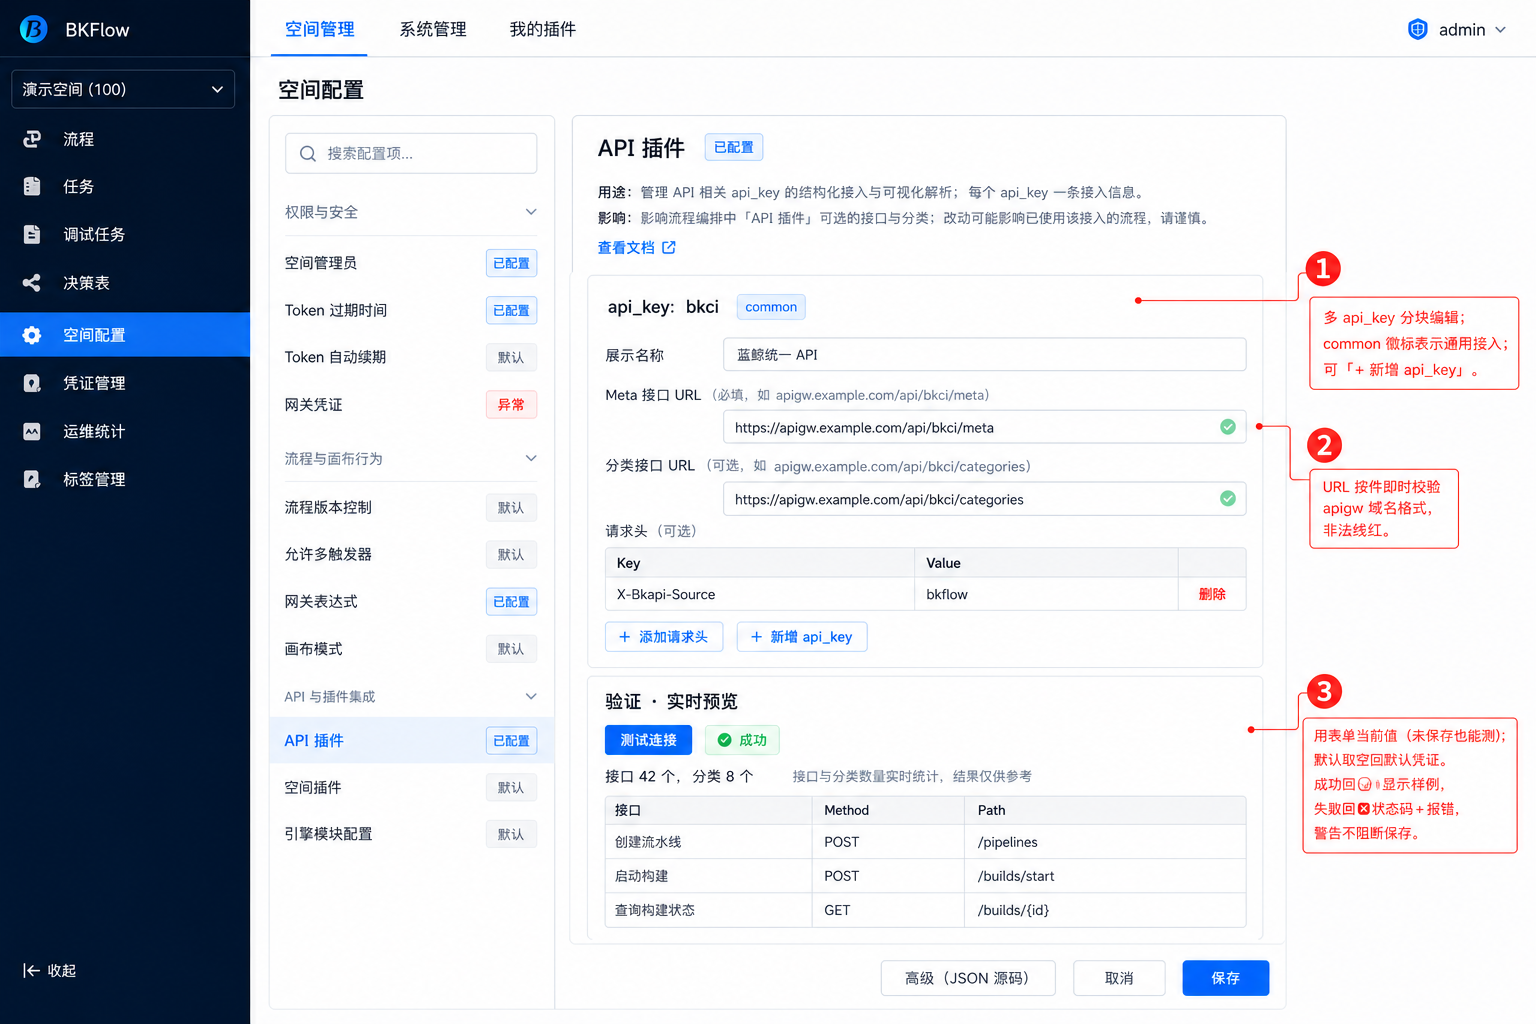
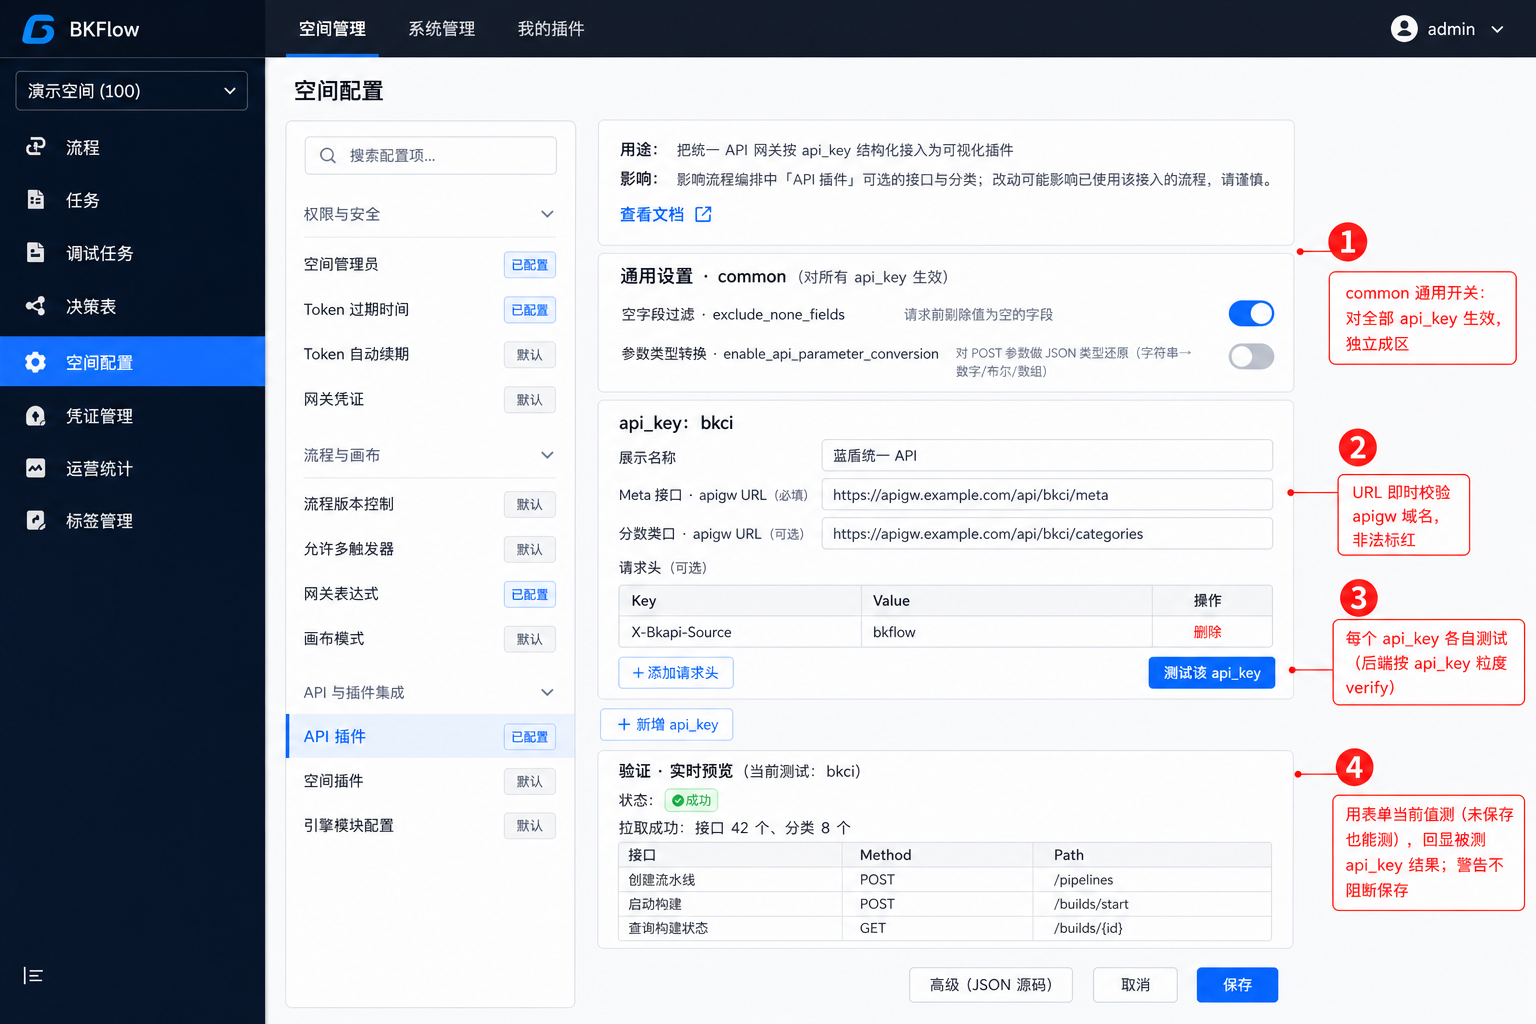
docs(space): 调整 API 插件设计稿 common 独立成区与 api_key 粒度测试 --story=132989396
- common（exclude_none_fields / enable_api_parameter_conversion）从 api_key 分块中移出，独立为「通用设置」区，明确其对全部 api_key 生效
- 测试按钮下沉为每个 api_key 各自的「测试该 api_key」，对齐后端 verify 的 api_key 粒度；验证预览区标注「当前测试：bkci」
- 同步更新 wiremd 源 screens/04 与 README 交互说明表

diff --git a/prototypes/output/space-config-redesign/screens/04-api-plugin-config.md b/prototypes/output/space-config-redesign/screens/04-api-plugin-config.md
@@ -13,7 +13,21 @@
 :::
 
 ::: card
-#### api_key: bkci  ((common)){primary}
+#### 通用设置 · common（对所有 api_key 生效）
+
+空字段过滤 · exclude_none_fields
+请求前剔除值为空的字段
+((已开启)){success}
+
+参数类型转换 · enable_api_parameter_conversion
+对 POST 参数做 JSON 类型还原（字符串 → 数字/布尔/数组）
+((已关闭))
+:::
+
+<!-- ❶ common 是跨全部 api_key 的通用开关，独立成区，不隶属某个 api_key。 -->
+
+::: card
+#### api_key: bkci
 
 展示名称
 [蓝盾统一 API____________]
@@ -30,18 +44,20 @@ Meta 接口 · apigw URL（必填，如 apigw.example.com/api/bkci/meta）
 |-----|-------|-|
 | X-Bkapi-Source | bkflow | [删除]{danger} |
 
-[+ 添加请求头]{secondary}  [+ 新增 api_key]{secondary}
+::: row
+[+ 添加请求头]{secondary}  [测试该 api_key]*
+:::
 :::
 
-<!-- ❶ 多 api_key 分块编辑；((common)) 徽标表示是否作为通用接入。 -->
 <!-- ❷ URL 控件即时校验 apigw 域名格式，非法标红。 -->
-
-::: card
-#### 验证 · 实时预览
+<!-- ❸ 每个 api_key 各带「测试」按钮，按 api_key 粒度验证（后端 verify 即按单个 api_key）。 -->
 
 ::: row
-[测试连接]*
+[+ 新增 api_key]{secondary}
 :::
+
+::: card
+#### 验证 · 实时预览（当前测试：bkci）
 
 状态：((成功)){success}
 
@@ -56,7 +72,7 @@ Meta 接口 · apigw URL（必填，如 apigw.example.com/api/bkci/meta）
 
 :::
 
-<!-- ❸ 验证用「表单当前填的值」，未保存也能测；鉴权凭证默认取空间默认凭证（复用 UniformAPIClient meta/分类拉取）。 -->
+<!-- ❹ 验证用「表单当前填的值」，未保存也能测；鉴权凭证默认取空间默认凭证（复用 UniformAPIClient meta/分类拉取）；预览区回显被测 api_key 的结果。 -->
 
 ::: row {right}
 [高级（JSON 源码）]{secondary} [取消] [保存]*

diff --git a/prototypes/output/space-config-redesign/README.md b/prototypes/output/space-config-redesign/README.md
@@ -129,15 +129,16 @@ flowchart LR
 
 ## 屏 4 · API 插件 · 结构化配置 + 实时预览（api_plugin_config 复合控件）
 
-按 api_key 分块结构化编辑，验证区一键测试并回显拉取到的接口/分类预览。
+按 api_key 分块结构化编辑，common 通用开关独立成区；每个 api_key 各自「测试」，验证区回显被测 api_key 拉取到的接口/分类预览。
 
 ![API 插件配置](shots/04-api-plugin-config.png)
 
 | 编号 | 元素 | 交互说明 |
 |------|------|----------|
-| ❶ | api_key 分块 | 多 api_key 分块编辑；`((common))` 徽标表示是否作为通用接入；可「+ 新增 api_key」。 |
+| ❶ | 通用设置 · common | 跨**全部** api_key 生效的通用开关（`exclude_none_fields` 空字段过滤 / `enable_api_parameter_conversion` 参数类型转换），独立成区，不隶属任何单个 api_key。 |
 | ❷ | URL 控件 | 即时校验 apigw 域名格式，非法标红。 |
-| ❸ | 验证 · 实时预览 | 用「表单当前填的值」，未保存也能测；鉴权凭证默认取空间默认凭证（复用 `UniformAPIClient` meta/分类拉取）。成功回显数量 + 前 3 条样例，失败回显状态码 + 报错片段，警告不阻断保存。 |
+| ❸ | 按 api_key 测试 | 每个 api_key 分块自带「测试该 api_key」按钮，按 api_key 粒度验证（后端 `verify` 即以单个 api_key 为单位），便于精确定位是哪一个接入出错；可「+ 新增 api_key」。 |
+| ❹ | 验证 · 实时预览 | 用「表单当前填的值」，未保存也能测；鉴权凭证默认取空间默认凭证（复用 `UniformAPIClient` meta/分类拉取）；预览区回显**被测 api_key**（当前测试：bkci）的结果：成功显示数量 + 前 3 条样例，失败显示状态码 + 报错片段，警告不阻断保存。 |
 
 ## 屏 5 · 复合项 · JSON 源码兜底（高级模式）
 
